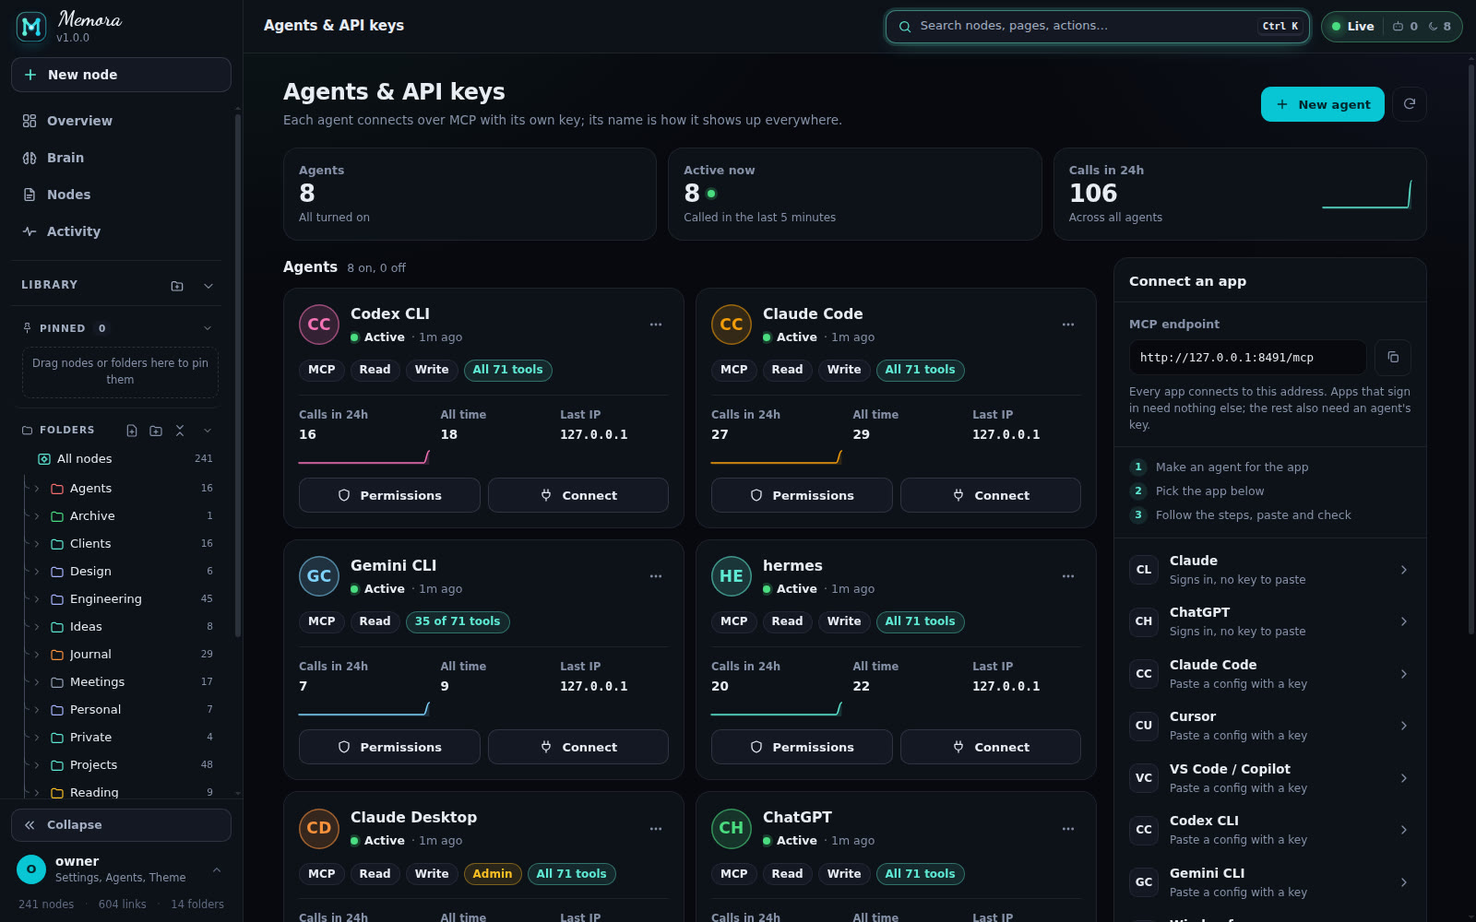
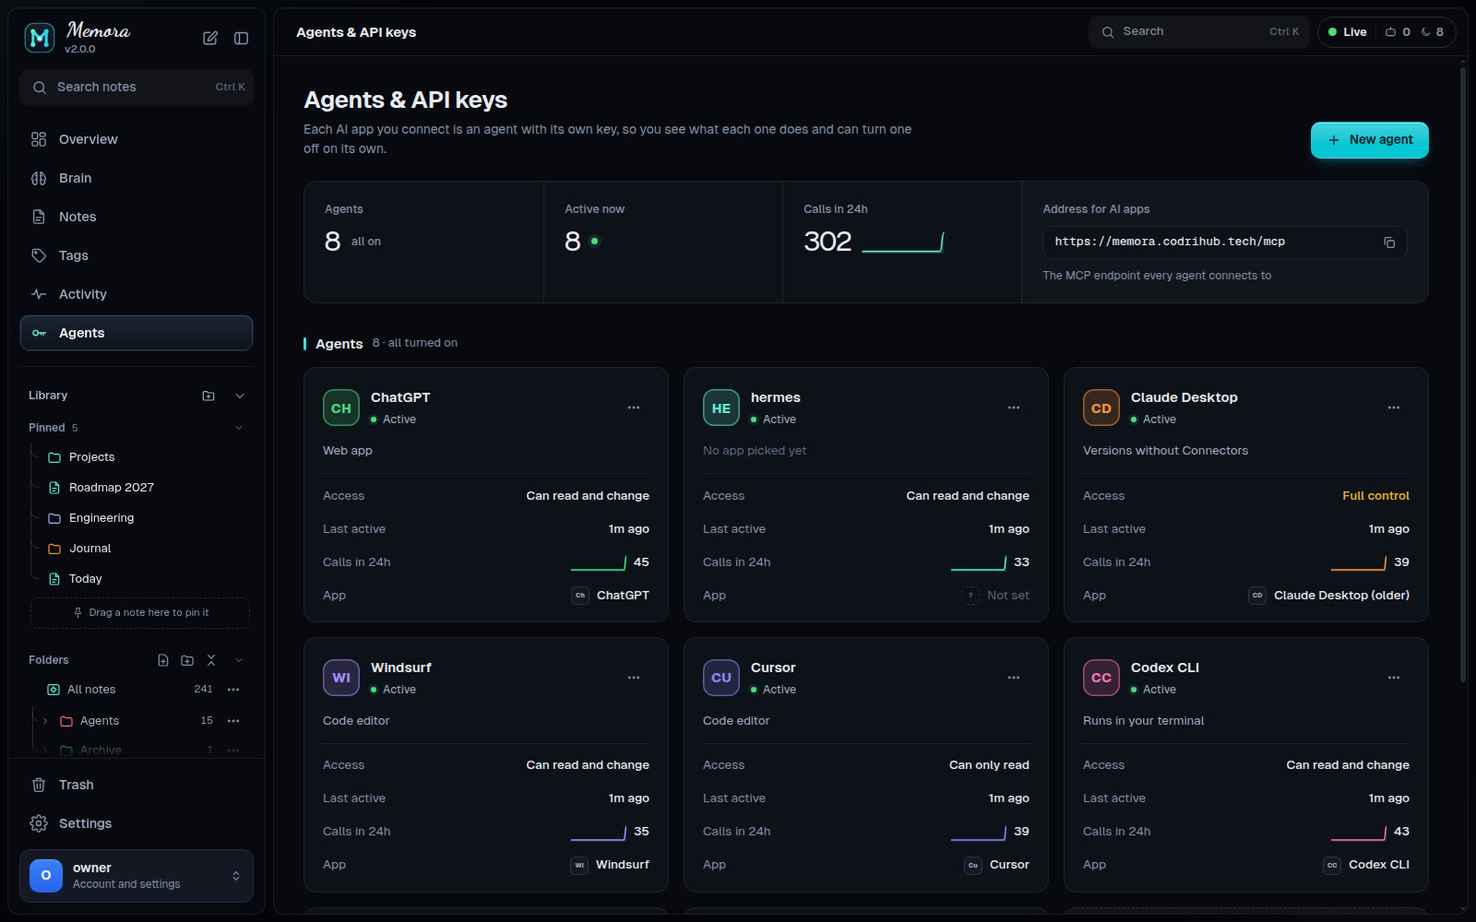
docs: 2.0.0 guides, API and screenshots
API, configuration, database, MCP and architecture notes follow the new
routes and settings, and the README screenshots show 2.0.0.

diff --git a/docs/API.md b/docs/API.md
@@ -24,7 +24,7 @@ needs is decided by its path and method:
 | Scope | Routes |
 |---|---|
 | `mcp` | `/mcp` |
-| `admin` | `/api/tools`, `/api/keys` and `/api/keys/*`, `/api/access` and `/api/access/*`, `/api/logs/settings`, `/api/oauth/clients` and `/api/oauth/clients/*`, `/api/privacy` and `/api/privacy/*` |
+| `admin` | `/api/tools`, `/api/keys` and `/api/keys/*`, `/api/access` and `/api/access/*`, `/api/logs/settings`, `/api/settings/server`, `/api/oauth/clients` and `/api/oauth/clients/*`, `/api/privacy` and `/api/privacy/*`, `/api/trash/delete`, `/api/trash/empty`; deleting for good with `/api/delete` |
 | `read` | Every other `GET` or `HEAD` under `/api/` |
 | `write` | Every other method under `/api/` |
 
@@ -82,6 +82,9 @@ Until a vault folder is configured, `/mcp` and every `/api/*` route except
   not limited.
 - A request that takes longer than 30 seconds is answered with `408`.
 - A password hashing pool that is busy answers `503` with `Retry-After: 2`.
+- `GET` answers under `/api/` (except `/api/auth/*`) are gzip-compressed when the
+  request sends `Accept-Encoding: gzip`. Pages, writes, sign-in, `/mcp` and
+  server-sent events are never compressed.
 
 Responses are JSON unless stated otherwise. Errors are `{"error": "..."}`. Vault
 errors map to `404` for not-found (including paths hidden from the caller) and
@@ -149,7 +152,7 @@ unmatched request is `404 {"error":"not found"}`.
 
 | Method | Path | Auth | Returns |
 |---|---|---|---|
-| GET | `/api/tree` | Session or key (`read`) | Notes grouped by folder. |
+| GET | `/api/tree` | Session or key (`read`) | Notes grouped by folder: `{folder: [{path, name, folder, mtime, title}]}`; `title` is what the app shows (front matter `title`, else the first `# heading`, else the file name with `_` as spaces). |
 | GET | `/api/folders` | Session or key (`read`) | Every folder the caller may see, empty and nested ones included (`{folders:[path]}`); dot folders such as `.Trash` are left out. |
 | GET | `/api/note` | Session or key (`read`) | `{path, name, content, html, tags, frontmatter, backlinks, size, mtime}`. Query: `path` (`400` when empty). |
 | GET | `/api/vault/file` | Session or key (`read`) | The raw bytes of one image file in the vault (PNG, JPEG, GIF, WebP, AVIF, BMP, ICO; never SVG). Query: `path` (vault-relative). The file content must match its type. At most 10 MiB (`413`). Sent with an `ETag` (`304` on `If-None-Match`), `Cache-Control: private, max-age=300`, and a sandbox CSP. `400` invalid path, `403` path not allowed, `404` not found, `415` not an image. |
@@ -158,16 +161,36 @@ unmatched request is `404 {"error":"not found"}`.
 | POST | `/api/create` | Session or key (`write`, +CSRF) | `{ok, path}`. Body: `{title, folder?, content?}`. |
 | POST | `/api/rename` | Session or key (`write`, +CSRF) | `{ok, path}` with the new path. Body: `{path, name}`. |
 | POST | `/api/move` | Session or key (`write`, +CSRF) | `{ok, path}` with the new path. Body: `{path, folder?}`. |
-| POST | `/api/delete` | Session or key (`write`, +CSRF) | `{ok:true}`. Body: `{path}`. Deletes the note file for good (no trash); with version history on, `restore_memory` can bring it back. |
+| POST | `/api/delete` | Session or key (`write`; `admin` to delete for good, +CSRF) | `{ok:true}`. Body: `{path, mode?}`. Deletes the note for good (no trash); with version history on, its earlier versions are erased from the history too, so nothing can bring it back. Because that cannot be undone, an API key needs the `admin` scope for it (`403 {error, required_scope: "admin"}` otherwise, as MCP `delete_memory` with `permanent`); the owner's browser session may. `mode: "trash"` (what the web app sends) moves it to `.Trash` instead, remembering where it was and who deleted it: `{ok, trashed, to}`. |
+| GET | `/api/trash` | Session or key (`read`) | Notes in `.Trash` the caller may see, newest first: `{items: [{name, path, original, deleted, by, title}]}` (`by` = `{id, name, kind}`, null when unknown). Nothing is removed automatically. |
+| POST | `/api/trash/restore` | Session or key (`write`, +CSRF) | Body: `{name, into?}`. Back to where the note was deleted from (or into the folder `into`); a taken name gets `-1`, `-2` ...: `{ok, path, from, renamed?}`. 404 when the name is not in the trash. |
+| POST | `/api/trash/delete` | Session or key (`admin`, +CSRF) | Body: `{name}`. Deletes one trash entry for good: `{ok, deleted, name, history?}`. With version history on, the note is also erased from the history (every earlier version under every name it had, its trash record and its path in commit messages), and `history` is `{erased, ms, commits}`. Other notes keep their versions; their revision ids change. |
+| POST | `/api/trash/empty` | Session or key (`admin`, +CSRF) | Deletes every trash entry the caller may see, for good: `{ok, count, names, history?}`, erasing them from the version history in one rewrite (as `/api/trash/delete`). |
 | POST | `/api/folder` | Session or key (`write`, +CSRF) | `{ok, path}`. Body: `{name}`. |
 | POST | `/api/folder/rename` | Session or key (`write`, +CSRF) | `{ok, from, to, notes}`. Body: `{folder, name}`. |
 | POST | `/api/folder/move` | Session or key (`write`, +CSRF) | Moves a folder and everything in it. `{ok, from, to, notes}`. Body: `{folder, into}`; `into` empty or `Root` means the top level. |
 | POST | `/api/folder/move-contents` | Session or key (`write`, +CSRF) | Moves everything inside a folder into another one, then removes the emptied folder. Name clashes get a `-N` suffix. `{ok, from, to, moved}`. Body: `{folder, into}`; `into` empty or `Root` means the top level. |
-| POST | `/api/delete-folder` | Session or key (`write`, +CSRF) | Deletes a folder. Body: `{folder, into?, mode?}`. By default its notes move to the folder's parent (the top level for a top-level folder), keeping the sub folder structure below it, and wikilinks are rewritten: `{ok, deleted_folder, moved_to, moved, links_updated}` (`moved` lists the new paths; `moved_to_root` repeats it when they went to the top level). `into` names another existing folder for the notes (`Root` = top level). `mode: "trash"` moves every note to `.Trash` instead (restorable with the MCP tools `list_trash` / `restore_trash`): `{ok, deleted_folder, mode, count, trashed}`. Other files in the folder are deleted. |
+| POST | `/api/delete-folder` | Session or key (`write`, +CSRF) | Deletes a folder. Body: `{folder, into?, mode?}`. By default its notes move to the folder's parent (the top level for a top-level folder), keeping the sub folder structure below it, and wikilinks are rewritten: `{ok, deleted_folder, moved_to, moved, links_updated}` (`moved` lists the new paths; `moved_to_root` repeats it when they went to the top level). `into` names another existing folder for the notes (`Root` = top level). `mode: "trash"` moves every note to `.Trash` instead (restorable from the Trash on the Notes page, `/api/trash/restore`, or the MCP tools `list_trash` / `restore_trash`): `{ok, deleted_folder, mode, count, trashed}`. Other files in the folder are deleted. |
 | POST | `/api/folder-meta` | Session or key (`write`, +CSRF) | `{ok, folder}`. Body: `{folder, color?, icon?, desc?}`. |
 
 The three folder operations also publish a `folder_changed` realtime event so
 open browsers reload their tree.
+
+### Version history
+
+| Method | Path | Auth | Returns |
+|---|---|---|---|
+| GET | `/api/history?path=&limit=` | Session or key (`read`) | A note's revisions, newest first (the vault's git history, following renames): `{path, total, versions: [{rev, date, author, message, version, total, path?, owner}]}`. `version` counts from 1 (the oldest) to `total` (the current one); `owner` is true when the signed-in owner made the change. `limit` defaults to 100 (at most 500). |
+| GET | `/api/note-at?path=&rev=` | Session or key (`read`) | The note as it was at one revision (a `rev` from `/api/history`, `snap-<label>`, `HEAD~1`, `HEAD@{<date>}`): `{path, rev, content, html}`, `html` rendered like `/api/note`. |
+| GET | `/api/diff?path=&a=&b=` | Session or key (`read`) | Unified diff of the note from revision `a` to `b`, or to the note as it is now when `b` is left out: `{path, from, to, changed, diff}`. |
+| POST | `/api/history/restore` | Session or key (`write`, +CSRF) | Body: `{path, rev}`. Gives the note its content from `rev` again as a new revision (restoring version 3 of 5 makes version 6; nothing is lost): `{ok, path, rev, changed, version, total}` (`changed` false when the note already had that content). |
+
+The four history routes answer `409 {error, history: false}` while version history
+is off (the vault folder is not a git repository; see
+[CONFIGURATION.md](CONFIGURATION.md#version-history)) and `404` for a path that is
+not in the vault or its history, or is hidden from the calling key. Web writes
+(save, create, rename, move, delete, restore) are committed with the caller as the
+author: the owner's username for the browser, the key's name for an API key.
 
 ## Search and graph
 
@@ -212,11 +235,11 @@ realtime event.
 | GET | `/api/access` | Session or key (`admin`) | `{default_allow, rules, count}`. |
 | POST | `/api/access/test` | Session or key (`admin`) | `{action, would_lock_out_caller}` for the given address or domain. Body: `{ip?, domain?}`. |
 | POST | `/api/access/rules` | Session or key (`admin`, +CSRF) | `{ok, count, persisted}`. Body: `{op, kind, value, action}`. `op` is `add` (default) or `remove`. `kind` is `ip`, `range`, `cidr`, `domain`, or `all`; `value` is required unless `kind` is `all`. `action` is `allow` or `block` (default `block`). `remove` deletes every rule matching the given `kind` and `value`; `404` when none match. |
-| GET | `/api/config` | Session or key (`read`) | `{realm, min_password_len, session_ttl, vault, version, gateway, update}`. `update` is the cached release check: `{current, latest, available, url, checked_at, state}`, `state` one of `ok`, `none` (no release published), `error`, `disabled`, `pending`. |
+| GET | `/api/config` | Session or key (`read`) | `{realm, min_password_len, session_ttl, vault, version, gateway, update}`. `update` is the cached release check: `{current, latest, available, url, checked_at, state, repo, stars}`, `state` one of `ok`, `none` (no release published), `error`, `disabled`, `pending`; `stars` is the repository's GitHub star count from the same check (`null` until known). |
 
 ## Settings
 
-All settings endpoints need a signed-in browser.
+All settings endpoints need a signed-in browser, except `/api/settings/server`, which also takes an API key with the `admin` scope.
 
 | Method | Path | Auth | Returns |
 |---|---|---|---|
@@ -224,6 +247,7 @@ All settings endpoints need a signed-in browser.
 | POST | `/api/settings/password` | Session only (+CSRF) | Body: `{current, password, confirm}`. Returns `{ok, user, password_changed, revoked_sessions, persisted}`. Every other session is signed out. `400` for a short, mismatched, or unchanged password; `403` for a wrong current password (counts toward the login cooldown). |
 | POST | `/api/settings/username` | Session only (+CSRF) | Renames the account. Body: `{username, current}`. Returns `{ok, user, changed}` (plus `persisted` when changed). The username is stored lowercase. Sessions stay signed in. `400` for an invalid username, `403` for a wrong password. |
 | POST | `/api/settings/vault` | Session only (+CSRF) | Sets the vault folder and switches the running server to it. Body: `{path, create?}`. `path` must be absolute, without `..`, writable, not a system folder, and not overlap the state folder; with `create` a missing folder is created (its parent must exist). Returns `{ok, vault, created, stats}`. `400` with a message when the folder is refused. |
+| POST | `/api/settings/server` | Session or key (`admin`, +CSRF) | Body: `{realm?, session_ttl?, session_max_age?}` (at least one). Sets the server name (1-64 characters), how long a browser may stay idle before it must sign in again (300 to 2592000 seconds) and the longest sign-in (`0` for no limit, else at least `session_ttl`). Returns `{realm, session_ttl, session_max_age}`; open sessions follow the new limits at once. `400` for a value out of range. |
 | GET | `/api/settings/sessions` | Session only | `{sessions:[{id, current, source, alias, ip, user_agent, created_at, last_seen, expires_in}], count}`: live browser sessions. API keys are not sessions and never appear here. |
 | POST | `/api/settings/sessions/revoke` | Session only (+CSRF) | Signs other browsers out. Body: `{id}` or `{others:true}`. Returns `{ok, revoked}`. `400` for the current session (use logout), `404` when the session has already ended. |
 | POST | `/api/settings/sessions/rename` | Session only (+CSRF) | Names a device. Body: `{id, alias}`; an empty alias clears it. Returns `{ok, alias}`. |

diff --git a/docs/MCP.md b/docs/MCP.md
@@ -280,10 +280,10 @@ copied in the web app (Copy path in a note or folder menu) works as is as the
 |---|---|---|---|
 | `list_memory` | R | none | Every note grouped by its folder, the full parent path (`Projects/Atlas`; `Root` for the top level): `{folder: [{path, name, folder, mtime}]}`. |
 | `read_memory` | R | `path` (string, required) | Markdown body, frontmatter, tags and backlinks of one note. A `\` in a path is read as `/`; replies echo the normalized path. |
-| `create_memory` | W | `title` (string, required), `folder` (string relative to the vault, default `Memory` when omitted or empty; `Root` for the top level), `content` (string; default is a stub with `created` frontmatter and a heading) | Creates `<folder>/<title>.md` and returns `{ok, path}`. A trailing `.md` in the title is dropped; `/` and `\` in a title, an absolute folder and a folder that is a note are refused. Characters other than letters, digits, spaces, `_` and `-` are removed and names are cut at 80 characters; the reply then adds `renamed_from` and a `note`. A note whose name differs only in case from an existing one is refused. |
+| `create_memory` | W | `title` (string, required), `folder` (string relative to the vault, default `Memory` when omitted or empty; `Root` for the top level), `content` (string; default is a stub with `created` frontmatter and a heading) | Creates `<folder>/<title>.md` and returns `{ok, path}`. A trailing `.md` in the title is dropped; `/` and `\` in a title, an absolute folder and a folder that is a note are refused. Spaces are kept; `: * ? " < > | # ^ [ ]` and a leading dot are removed and names are cut at 80 characters; the reply then adds `renamed_from` and a `note`. A note whose name differs only in case from an existing one is refused. |
 | `save_memory` | W | `path` (string, required), `content` (string, required) | Replaces the whole note. |
 | `patch_memory` | W | `path` (string, required), `ops` (array, required) | Partial edits. Each op is an object: `{op:"append", text}`, `{op:"prepend", text}`, `{op:"replace", find, with}`, `{op:"set_field", field, value}`, `{op:"add_tag", tag}`, `{op:"remove_tag", tag}`. |
-| `delete_memory` | W | `path` (string, required) | Deletes a note permanently. `soft_delete` moves it to `.Trash` instead, where `restore_trash` can bring it back; only a vault that is a git repository keeps deleted notes in its history. |
+| `delete_memory` | W | `path` (string, required), `permanent` (boolean, default false) | Moves a note to the Trash (`.Trash`), remembering where it came from and who deleted it: `{ok, path, trashed, to}`. `list_trash` shows it and `restore_trash` brings it back. `permanent: true` deletes it for good instead (`{ok, path, permanent}`) and is refused for keys without the `admin` scope. With version history on, every earlier version is erased from the history as well (every name the note had, its trash record and the commit messages naming it; other notes keep their versions but their revision ids change), so no one, agents included, can read it again. |
 | `move_memory` | W | `path` (string, required), `folder` (string, required; relative to the vault, `Root` for the top level) | Moves a note into another folder. Wikilinks resolve by note name, so they keep working. |
 | `rename_memory` | W | `path` (string, required), `new_name` (string, required) | Renames a note in its folder. |
 
@@ -346,13 +346,13 @@ copied in the web app (Copy path in a note or folder menu) works as is as the
 
 | Tool | | Arguments | Purpose |
 |---|---|---|---|
-| `get_history` | R | `path` (string, required), `limit` (integer, default 20, at least 1) | Git history of a note, always an array of `{rev, date, author, message}` (plus `path` for commits under an earlier name: the history follows renames). `author` is the agent or user whose call made the change. |
+| `get_history` | R | `path` (string, required), `limit` (integer, default 20, at least 1) | Git history of a note, newest first, always an array of `{rev, date, author, message, version, total}` (plus `path` for commits under an earlier name: the history follows renames). `author` is the agent or user whose call made the change. `version` numbers the revisions from 1 (the oldest) to `total` (the current one), whatever `limit` is. |
 | `get_note_at` | R | `path` (string, required), `rev` (string, required) | `{ok, path, rev, content}` at a revision. `rev` is one revision: a `rev` from `get_history`, `snap-<label>`, `HEAD~1` or `HEAD@{<date>}`. Unknown revisions, dates before the history and empty `rev` are errors. |
 | `diff` | R | `path` (string, required), `rev_a` (string, required), `rev_b` (string) | `{path, from, to, changed, diff}` between two revisions, or `rev_a` against the current note. Ranges (`a..b`) and unknown revisions are errors. |
 | `restore_memory` | W | `path` (string, required), `rev` (string, required) | Restores a note to a revision (a new commit). Give the current path; content under an earlier name is found. Restoring the old path of a renamed note is refused and names the current one. |
 | `snapshot` | W | `label` (string, required) | Commits pending changes and tags the last commit `snap-<label>` (letters, digits, `.`, `_`, `-`; spaces become `-`; at most 40 characters; must be new). Use the tag as `rev`. |
 | `soft_delete` | W | `path` (string, required) | Moves a note to `.Trash` and remembers where it came from. |
-| `list_trash` | R | none | Notes in `.Trash`, newest first: `{name, path, original, deleted}`. |
+| `list_trash` | R | none | Notes in `.Trash`, newest first: `{name, path, original, deleted, by, title}` (`by` = `{id, name, kind}` of who deleted it, null when unknown). |
 | `restore_trash` | W | `name` (string, required; `.md` optional), `into` (string) | Restores a note from `.Trash` to the path it was deleted from, or into the folder `into` (`Root` = top level). |
 
 All versioning tools except `soft_delete`, `list_trash` and `restore_trash`

diff --git a/docs/CONFIGURATION.md b/docs/CONFIGURATION.md
@@ -52,7 +52,7 @@ most 2048 bytes).
 | `MEMORA_ASSETS` | the `crates/http/assets` folder of the build tree | Directory of the web UI assets. |
 | `MEMORA_INSTALL` | set by the npm launcher (`npm`) and the Docker image (`docker`) | How this copy was installed: `npm`, `docker`, `native`, `zip` or `source`. `memora-cli update`, `start`, `stop`, `restart` and `uninstall` use it to pick the right steps; when unset they work it out from the program's path. |
 | `MEMORA_SETUP_HINT` | `memora-cli setup (run on the server)` | Hint returned by `GET /api/auth/state` and shown on the login screen. |
-| `MEMORA_UPDATE_CHECK` | `true` | Release check: shortly after start and then every 6 hours the server asks GitHub (`api.github.com/repos/Codrihub/memora/releases/latest`) for the newest release and the web UI shows when an update is available. `false` (also `0`, `no`, `off`) turns it off; no network call is made. |
+| `MEMORA_UPDATE_CHECK` | `true` | Release check: shortly after start and then every 6 hours the server asks GitHub (`api.github.com/repos/Codrihub/memora/releases/latest`) for the newest release and the web UI shows when an update is available. The same check reads the repository's star count (`api.github.com/repos/Codrihub/memora`), shown in What's new. `false` (also `0`, `no`, `off`) turns both off; no network call is made. |
 
 The two secrets can never be stored in `server_config` (the schema rejects
 them). The `_FILE` variants read the value from a file, for example a Docker
@@ -157,3 +157,12 @@ vault inside another repository still needs its own `git init`.
 A snapshot (`snapshot` tool) commits pending changes and tags the last commit
 as `snap-<label>`; pass that tag as `rev` to `get_note_at`, `diff` or
 `restore_memory`.
+
+Deleting a note for good (Delete forever or Empty trash in the app,
+`/api/trash/delete`, `/api/trash/empty`, `delete_memory` with `permanent`)
+also erases it from the history: Memora rewrites the vault's git history so
+no commit, snapshot tag or object keeps its text, any name it had, its trash
+record or its path in a commit message, then expires the reflog and runs
+`git gc --prune=now`. Other notes keep all their versions, but their revision
+ids change, so old revision ids (and clones or pushes of the vault made
+before) no longer match. Moving a note to the Trash keeps its history.

diff --git a/README.md b/README.md
@@ -10,7 +10,7 @@
   <a href="https://github.com/Codrihub/memora/releases/latest"><img src="https://img.shields.io/github/v/release/Codrihub/memora?sort=semver" alt="Latest release"></a>
   <a href="https://www.npmjs.com/package/@codrihub/memora"><img src="https://img.shields.io/npm/v/@codrihub/memora?logo=npm&label=npm" alt="npm: @codrihub/memora"></a>
   <a href="https://github.com/Codrihub/memora/actions/workflows/ci.yml"><img src="https://github.com/Codrihub/memora/actions/workflows/ci.yml/badge.svg" alt="CI"></a>
-  <a href="LICENSE"><img src="https://img.shields.io/github/license/Codrihub/memora" alt="License: MIT"></a>
+  <a href="LICENSE"><img src="https://img.shields.io/github/license/Codrihub/memora" alt="License: AGPL-3.0"></a>
   <a href="https://github.com/Codrihub/memora/pkgs/container/memora"><img src="https://img.shields.io/badge/ghcr.io-codrihub%2Fmemora-blue?logo=docker" alt="Docker image"></a>
 </p>
 
@@ -195,8 +195,8 @@ service: `sudo ./scripts/install.sh --from-source`. The web UI is built from
 4. Add an agent: Agents, then New agent. Pick the app and paste the config it
    shows. One agent per app or device.
 
-If a setup window expires unused, the instance locks until you run
-`memora-cli setup` or `memora-cli unlock` on the server.
+If a setup code expires unused, nothing breaks: run `memora-cli setup` again
+for a new code.
 
 ## Configuration
 
@@ -358,4 +358,11 @@ Contributions are welcome. Read [CONTRIBUTING.md](CONTRIBUTING.md) and the
 
 ## License
 
-MIT, see [LICENSE](LICENSE). Memora by Codrihub Tech.
+Memora is free software under the [GNU Affero General Public License v3.0 or
+later](LICENSE). You may use, modify and share it, including commercially. If
+you distribute a modified version, or run one as a service for others, you must
+publish its source under the same license and keep the attribution in
+[NOTICE](NOTICE): "Based on Memora by Codrihub Tech". The name and logo are
+covered by [TRADEMARK.md](TRADEMARK.md).
+
+Versions 1.3.8 and earlier were released under the MIT License.

diff --git a/docs/ARCHITECTURE.md b/docs/ARCHITECTURE.md
@@ -141,7 +141,7 @@ in this order, outermost first:
 7. Auth and lock gate (`mw_auth`):
    - If the instance is LOCKED and the path is neither in the lock allow list
      nor a static asset: `/api/*` and `/mcp` return `423`; other paths redirect
-     to `/login?locked=1`.
+     to `/login`.
    - Public paths pass: `/healthz`, `/.well-known/mcp.json`, `/tools`,
      `/login`, `/logout`, `/_bus`, `/`, `/index.html`, static assets, the OAuth
      discovery and flow endpoints, and the auth endpoints
@@ -236,9 +236,10 @@ First-run and recovery (the arm window):
 - `memora-cli reset-password` arms a `reset` window; `/api/auth/reset`
   replaces the password.
 - A wrong code spends that IP's small budget (3, then a cooldown); 50 wrong
-  codes in one window void it. If a window expires unfinished, the instance
-  becomes LOCKED. While locked, only the lock allow list and static assets are
-  reachable. `memora-cli unlock`, `setup`, or `reset-password` clears the lock.
+  codes in one window void it. A window that expires unfinished just closes
+  (back to idle; agents and signed-in browsers keep working). LOCKED is only
+  entered on purpose. While locked, only the lock allow list and static assets
+  are reachable. `memora-cli unlock`, `setup`, or `reset-password` clears the lock.
 
 Lock allow list (`LOCK_ALLOWED`): `/login`, `/logout`, `/api/auth/state`,
 `/api/auth/verify`, `/api/auth/login`, `/api/auth/logout`,

diff --git a/docs/DATABASE.md b/docs/DATABASE.md
@@ -118,7 +118,7 @@ and are read from the database when needed.
 - Hot-path writes are buffered: session `last_seen` is flushed every 5 seconds
   and key usage every 30 seconds. Pending control requests are served every 2
   seconds. Buffers are flushed on shutdown.
-- Window expiry is a conditional update (`armed` to `locked`), and a setup code
+- Window expiry is a conditional update (`armed` to `idle`, never `locked`), and a setup code
   is checked and consumed in the same transaction, so a code works at most
   once.
 

diff --git a/npm/README.md b/npm/README.md
@@ -73,4 +73,5 @@ The state database is migrated on the next start.
 
 ## License
 
-MIT
+GNU AGPL v3.0 or later, with the attribution terms in NOTICE. Versions 1.3.8
+and earlier were MIT. See https://github.com/Codrihub/memora
